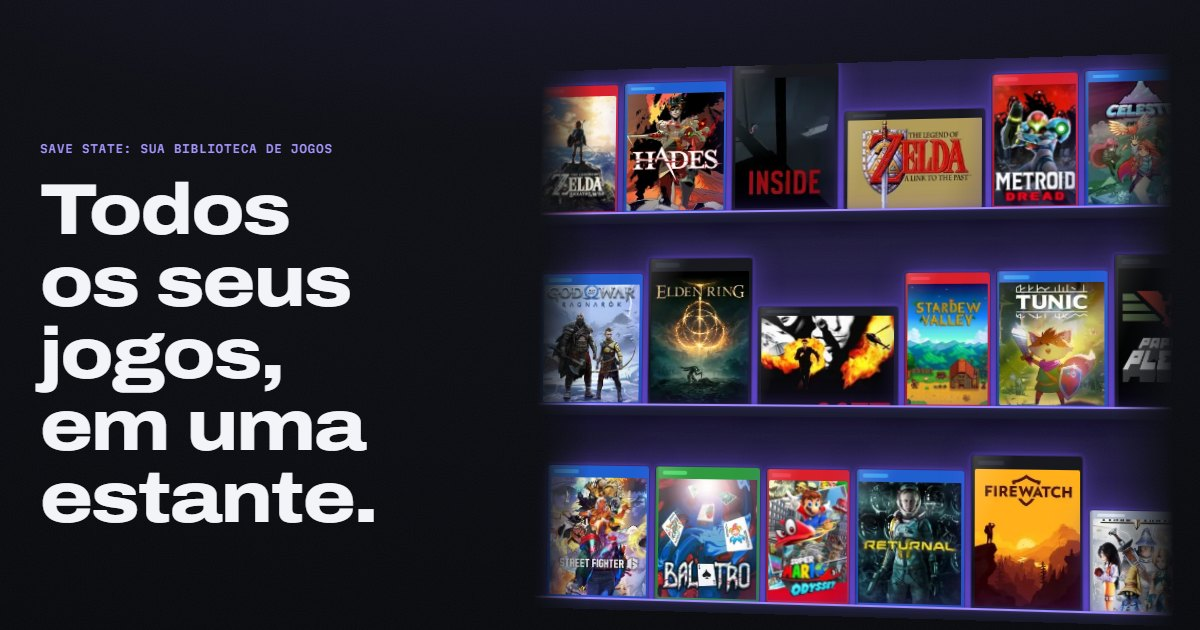
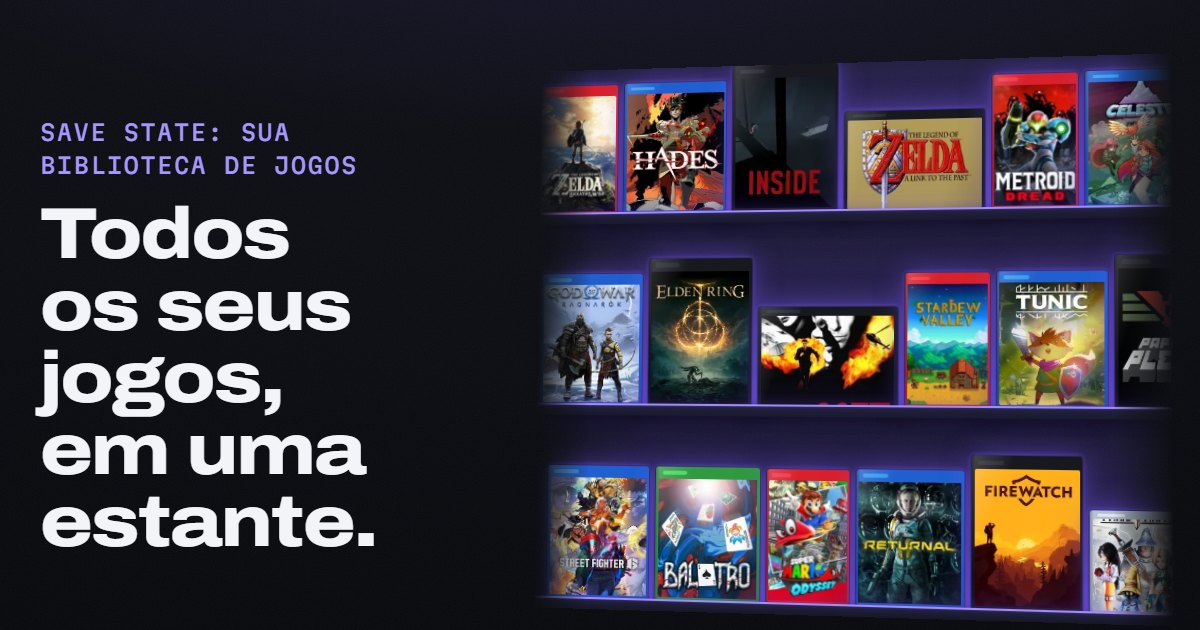
Fix what the UI/UX review of the rename found
- Privacy's Nintendo section said "the service" beside Nintendo's own,
  so "Your Nintendo password never reaches the service" could read as
  Nintendo's. It says Save State now, as do Terms' "Other services"
  ("what that other service does") and Privacy's line about the names
  of computers.
- Terms define "the service" as Save State in the intro, say "Save State
  is free" in place of "It is free", and say that Save State was called
  Shelf until 23 November 2026 and that the terms changed then only in
  the name. llms.txt says "Save State (formerly Shelf)".
- The share pictures draw the eyebrow, the only place they carry the
  name, at twice its size, so it reads at the size a link preview is
  shown. Regenerated.
- The hero's eyebrow is balanced: at 320 in Portuguese "JOGOS" no longer
  sits alone on its line.
- "A cor do Save State" names the violet colorway's colour; a curly
  apostrophe in "Save State's API"; llms.txt's comment.

Changed region(s): [[0.0308, 0.181, 0.3083, 0.8746]]

diff --git a/src/app/llms.txt/route.ts b/src/app/llms.txt/route.ts
@@ -1,7 +1,7 @@
 import { siteUrl } from '@/server/site-url'
 
 /**
- * `/llms.txt`: what Shelf is, for AI tools (architecture, section 16): the
+ * `/llms.txt`: what Save State is, for AI tools (architecture, section 16): the
  * site, the API, both MCP endpoints and the filter language, in the
  * format llmstxt.org proposes. It describes the site, not anyone's shelf,
  * so it is built ahead whole. It is for programs, in English, as the
@@ -11,7 +11,7 @@ export function GET() {
   const site = siteUrl()
   const text = `# Save State
 
-> Save State is a game library: every game a person owns, on one lit shelf, physical and digital, every console. Each account has one shelf at ${site}/en/u/{handle}, public or private. Game information comes from IGDB.com.
+> Save State (formerly Shelf) is a game library: every game a person owns, on one lit shelf, physical and digital, every console. Each account has one shelf at ${site}/en/u/{handle}, public or private. Game information comes from IGDB.com.
 
 Shelves are read by their handle. A public shelf can be read by anyone, with no key; a private one answers 404, as a shelf no account has does. Writing acts on one's own shelf and needs that account's sign-in.
 

diff --git a/scripts/landing-share.ts b/scripts/landing-share.ts
@@ -2,7 +2,7 @@
  * pnpm landing:share
  *
  * Writes the landing page's share pictures, `public/share/{locale}.jpg`: what a
- * link to Shelf shows in a chat or a post. Each is the page's own first screen
+ * link to Save State shows in a chat or a post. Each is the page's own first screen
  * in the dark, its lights on, cut to the eyebrow, the headline and the shelf of
  * real covers, at the size those cards are drawn (1200 by 630).
  *
@@ -21,8 +21,11 @@ const out = resolve('public/share')
 mkdirSync(out, { recursive: true })
 
 // A card is a picture, not a page: no header, nothing that looks like it could be pressed.
+// The eyebrow carries the name, the only place the picture does, and a card is seen far
+// smaller than it is drawn, so here it is twice its size on the page.
 const PICTURE_ONLY = `
   body > header, #landing-title ~ * { display: none !important; }
+  #top p:has(+ #landing-title) { font-size: 1.375rem !important; }
 `
 
 const browser = await chromium.launch()

diff --git a/src/features/landing/hero.tsx b/src/features/landing/hero.tsx
@@ -33,7 +33,7 @@ export function Hero({ games }: { games: readonly DemoGame[] }) {
     <section id="top" aria-labelledby="landing-title" className="overflow-x-clip">
       <Page className="grid min-h-[min(54rem,calc(100svh-4rem))] grid-cols-[minmax(0,1fr)] items-center gap-x-10 gap-y-12 pt-10 pb-16 sm:pt-16 lg:grid-cols-[minmax(0,5fr)_minmax(0,7fr)] lg:pb-24">
         <div>
-          <Eyebrow>{t('eyebrow')}</Eyebrow>
+          <Eyebrow className="text-balance">{t('eyebrow')}</Eyebrow>
           <h1 id="landing-title" className="mt-4 title text-5xl text-balance sm:text-7xl">
             {t('title')}
           </h1>
